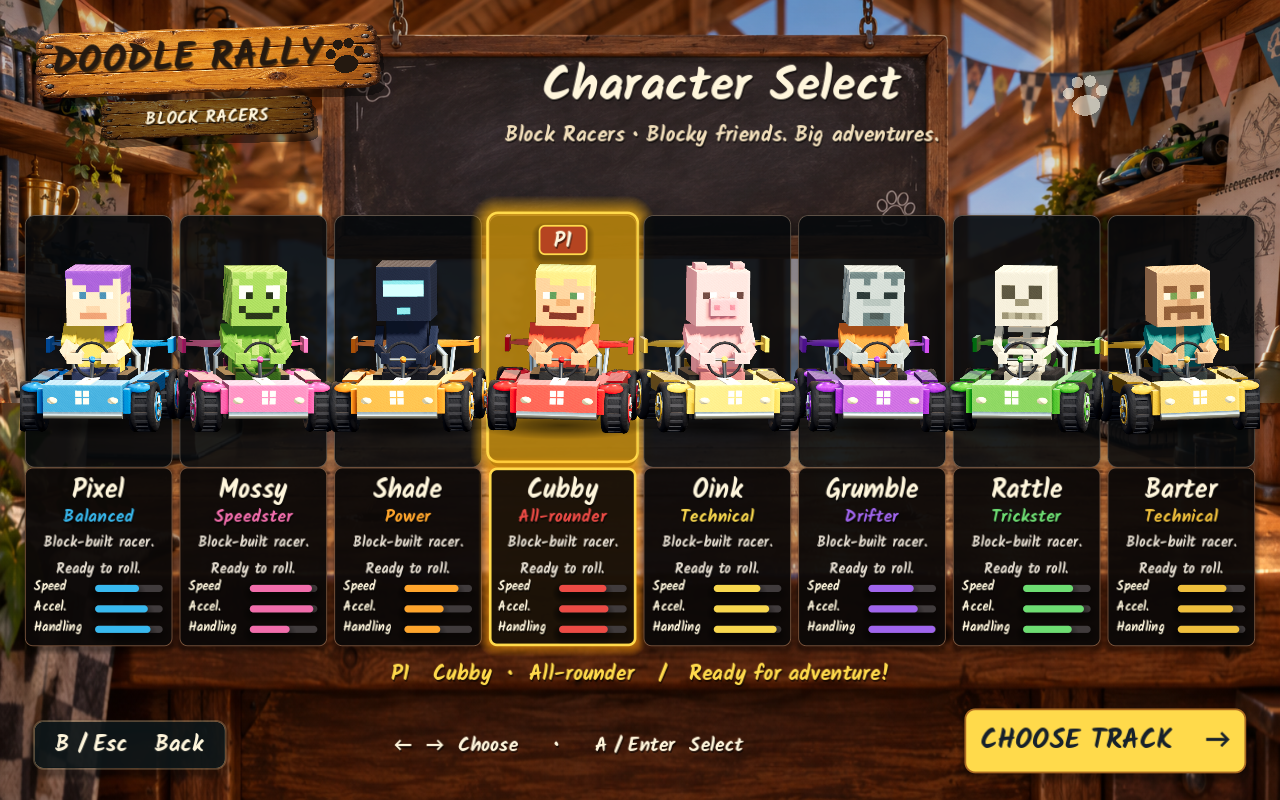
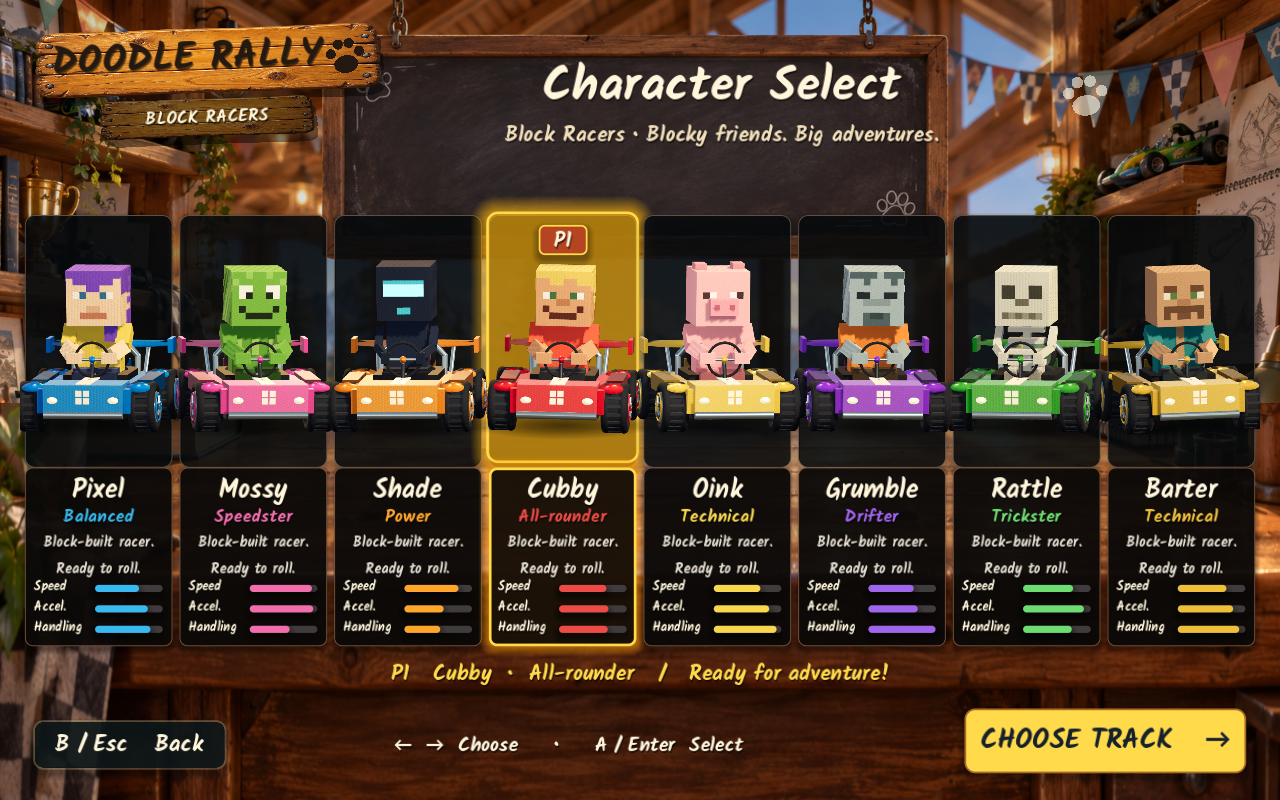
1.5.0 gallery rendered with the Forward+ renderer; notes updated
Claude-Session: https://claude.ai/code/session_01WFu8JKmyXG7xQizZXKtsaM

Changed region(s): [[0.0, 0.3125, 1.0, 0.5312]]

diff --git a/docs/releases/1.5.0.md b/docs/releases/1.5.0.md
@@ -5,10 +5,11 @@ This release adds a three-race cup, cleans up the cats in the race view, lighten
 ## What changed
 
 - **Cup.** Track Select has a **CUP ×3** button. It runs Desktop Dojo, Block Quarry and Glitch Core in order at the chosen level, awards 10-8-6-5-4-3-2-1 points per race, shows the points table between races and names a champion at the end.
-- **Cleaner cats in the chase view.** The solid fur strands that surrounded each head rendered as grainy speckle from the race camera. They are gone. The fur shader now adds a soft pale edge and a little sky fill, so dark coats such as Zizi's keep a rounded form instead of reading as a flat silhouette.
+- **Cleaner cats in the chase view.** The solid fur strands that surrounded each head rendered as grainy speckle from the race camera. They are gone. The fur shader now adds a soft pale edge, a little sky fill, broad brushed streaks and a centre parting on the back of the head, following the supplied rear-view artwork. Dark coats such as Zizi's keep a rounded, furry form instead of reading as a flat silhouette, and Zizi's coat is a warmer brown-black.
 - **Block Racers.** The blocky mode is renamed from Minecraft Racing. Its drivers are Cubby, Pixel, Mossy, Shade, Grumble, Rattle, Oink and Barter, with redrawn faces and outfits, a new kart badge, a new trackside figure and regenerated HUD portraits. Saved records carry over.
 - **Lighter scenes.** Cat heads, ears, tires and shared kart shapes use lower mesh resolution; small kart trim is hidden beyond 70 m; pebble-sized scenery spheres and twig-thin cylinders use coarse meshes.
 - **Desktop Dojo** has a graph-paper desk surface again, this time as a mipmapped texture that does not shimmer.
+- **Shadows.** The sun uses plain filtered shadows in place of a penumbra search. This removes a checker grain that covered karts standing in shadow, most visibly on Glitch Core, and is cheaper to shade.
 - **Dust** is smaller and sits at wheel height, so it no longer covers the karts. Glitch Core uses a cool tint.
 - **Full detail** renders natively up to a 2560×1440 pixel budget and upscales beyond it, so 4K and Retina-scaled windows no longer shade four times the pixels.
 - **Smaller download.** The 128 turntable frames import as lossy WebP at quality 0.85. Source PNGs are unchanged.
@@ -30,10 +31,10 @@ One cat kart is about 124,000 triangles close up (165,000 before) and about 39,0
 
 - **949 counted functional checks passed** across the seven source suites, plus three temporal collision replays with zero violations, on Godot 4.7.2.
 - The cup has integration checks for its start, points, track order, final ranking and exit.
-- Race, menu and results screens were reviewed in captures from a software renderer and from a GitHub-hosted Mac under Metal. That virtual GPU fails to compile some shaders, so those captures are not a full visual sign-off.
+- Every screen in `screenshots/1.5.0/` was rendered with the game's Forward+ renderer on a software GPU (Mesa lavapipe) and reviewed. Race views were also captured under Metal on a GitHub-hosted Mac, whose virtual GPU fails to compile some shaders.
 
 ## Not verified
 
 - **Frame rate.** Hosted Mac runners gave frame times too noisy to compare builds. The triangle counts above are measured; the frame-rate gain on real hardware is not.
-- **A play-through on a physical Mac** and fresh native captures. The README gallery still shows 1.4.1 captures.
+- **A play-through on a physical Mac** and native Metal captures. The gallery was rendered on a software GPU.
 - The Mac app is ad-hoc signed and not Apple-notarized.

diff --git a/README.md b/README.md
@@ -2,7 +2,7 @@
 
 **Doodle Rally** is a standalone single player 3D kart racer for macOS. Pick a cat, choose a course, and race seven rivals through a paper craft studio, an alpine quarry, or a neon block world. The game keeps the playful hand painted feel of the supplied Cat Racers references while using a real time 3D chase camera, physics based kart contact, items, drifting, boosts, and a second blocky Block Racers roster.
 
-The current source and Universal Mac build are version **1.5.0**. In the gallery below, the menu and cup screens are 1.5.0 captures from a software renderer; the race captures are native 1.4.1 captures and predate the fur and dust changes in the [1.5.0 notes](docs/releases/1.5.0.md). The original Doodle Rumble project is separate and is not modified.
+The current source and Universal Mac build are version **1.5.0**. The gallery below is from 1.5.0, rendered with the game's own Forward+ renderer on a software GPU; see the [1.5.0 notes](docs/releases/1.5.0.md). The original Doodle Rumble project is separate and is not modified.
 
 ## Screenshots
 
@@ -15,17 +15,17 @@ The visual review gallery is in [docs/SCREENSHOTS.md](docs/SCREENSHOTS.md). All 
     <td><img src="screenshots/1.5.0/track_select.png" alt="Track Select with Easy, Medium, Hard and the three-race Cup" width="320"></td>
   </tr>
   <tr>
-    <td><img src="screenshots/1.4.1/quarry_race.png" alt="Block Quarry race" width="320"></td>
-    <td><img src="screenshots/1.4.1/desktop_race.png" alt="Desktop Dojo race with the revised studio world" width="320"></td>
-    <td><img src="screenshots/1.4.1/glitch_race.png" alt="Glitch Core race with neon city vista" width="320"></td>
+    <td><img src="screenshots/1.5.0/quarry_race.png" alt="Block Quarry race" width="320"></td>
+    <td><img src="screenshots/1.5.0/desktop_race.png" alt="Desktop Dojo race on the graph-paper desk" width="320"></td>
+    <td><img src="screenshots/1.5.0/glitch_race.png" alt="Glitch Core race with neon city vista" width="320"></td>
   </tr>
   <tr>
-    <td><img src="screenshots/1.4.1/purrquake_race.png" alt="Purrquake expanding close-range shockwave" width="320"></td>
-    <td><img src="screenshots/1.4.1/pawfect_parry_race.png" alt="Pawfect Parry timing window around the kart" width="320"></td>
-    <td><img src="screenshots/1.4.1/feather_fan_race.png" alt="Feather Fan leaves three hop-over hazards" width="320"></td>
+    <td><img src="screenshots/1.5.0/purrquake_race.png" alt="Purrquake expanding close-range shockwave" width="320"></td>
+    <td><img src="screenshots/1.5.0/pawfect_parry_race.png" alt="Pawfect Parry timing window around the kart" width="320"></td>
+    <td><img src="screenshots/1.5.0/feather_fan_race.png" alt="Feather Fan leaves three hop-over hazards" width="320"></td>
   </tr>
   <tr>
-    <td><img src="screenshots/1.4.1/treat_trail_race.png" alt="Treat Trail bait snack lures rivals into a slowdown" width="320"></td>
+    <td><img src="screenshots/1.5.0/treat_trail_race.png" alt="Treat Trail bait snack lures rivals into a slowdown" width="320"></td>
     <td><img src="screenshots/1.5.0/settings.png" alt="Options with separate master, music, and sound effects controls" width="320"></td>
   </tr>
   <tr>

diff --git a/docs/SCREENSHOTS.md b/docs/SCREENSHOTS.md
@@ -1,6 +1,6 @@
 # Doodle Rally visual gallery
 
-Version 1.5.0 has menu captures from a software renderer in `screenshots/1.5.0/`: the [title menu](../screenshots/1.5.0/intro.png), [Block Racers lineup](../screenshots/1.5.0/block_racers_characters.png), [Track Select with the Cup](../screenshots/1.5.0/track_select.png) and [cup results](../screenshots/1.5.0/cup_results.png). It has no native race capture set yet. Its changes to the race view (no fur speckle, Block Racers drivers, graph-paper desk, smaller dust, cup results) are described in [the release notes](releases/1.5.0.md); the captures below are from 1.4.1 and earlier.
+Version 1.5.0 captures are in `screenshots/1.5.0/`, rendered at 1280×800 with the game's Forward+ renderer on a software GPU (Mesa lavapipe), not on a Mac. Browse the [title menu](../screenshots/1.5.0/intro.png), [cat lineup](../screenshots/1.5.0/character_select.png), [Block Racers lineup](../screenshots/1.5.0/block_racers_characters.png) and [Track Select with the Cup](../screenshots/1.5.0/track_select.png); then [Desktop Dojo](../screenshots/1.5.0/desktop_race.png) with its graph-paper desk, [Block Quarry](../screenshots/1.5.0/quarry_race.png), [Glitch Core](../screenshots/1.5.0/glitch_race.png), a [Block Racers race](../screenshots/1.5.0/block_racers_race.png), [Mak-Doong](../screenshots/1.5.0/mak_doong_race.png), the four tactical items ([Purrquake](../screenshots/1.5.0/purrquake_race.png), [Pawfect Parry](../screenshots/1.5.0/pawfect_parry_race.png), [Feather Fan](../screenshots/1.5.0/feather_fan_race.png), [Treat Trail](../screenshots/1.5.0/treat_trail_race.png)), [results](../screenshots/1.5.0/results_zizi.png) and [cup results](../screenshots/1.5.0/cup_results.png).
 
 Version 1.4.1 gives each course its own evolving soundtrack and adds distinct synthesized race cues, a speed-responsive engine loop, course-change fades, and independent sound-effects volume. See the fresh [Options screen](../screenshots/1.4.1/settings.png); captures of the title, racer lineup, courses, race effects, and driving screens are in [screenshots/1.4.1](../screenshots/1.4.1/).
 

diff --git a/BUILD_STATUS.md b/BUILD_STATUS.md
@@ -8,7 +8,7 @@ Triangles in the standard QA race frame fell from 1.98 M to 1.12 M on Desktop Do
 
 All **949 counted functional checks** passed across the seven source suites, with three temporal collision replays and zero violations. GitHub Actions now runs these on every push and builds the Universal Mac app.
 
-Not yet done for 1.5.0: the native release cases in `tools/test_release.py`, fresh native captures, a frame-rate measurement on a physical Mac, and notarization. See `docs/releases/1.5.0.md`.
+The 1.5.0 gallery in `screenshots/1.5.0/` was rendered with the Forward+ renderer on a software GPU. Not yet done for 1.5.0: the native release cases in `tools/test_release.py`, native Metal captures, a frame-rate measurement on a physical Mac, and notarization. See `docs/releases/1.5.0.md`.
 
 ## Doodle Rally — Cat Racers 1.4.1
 
